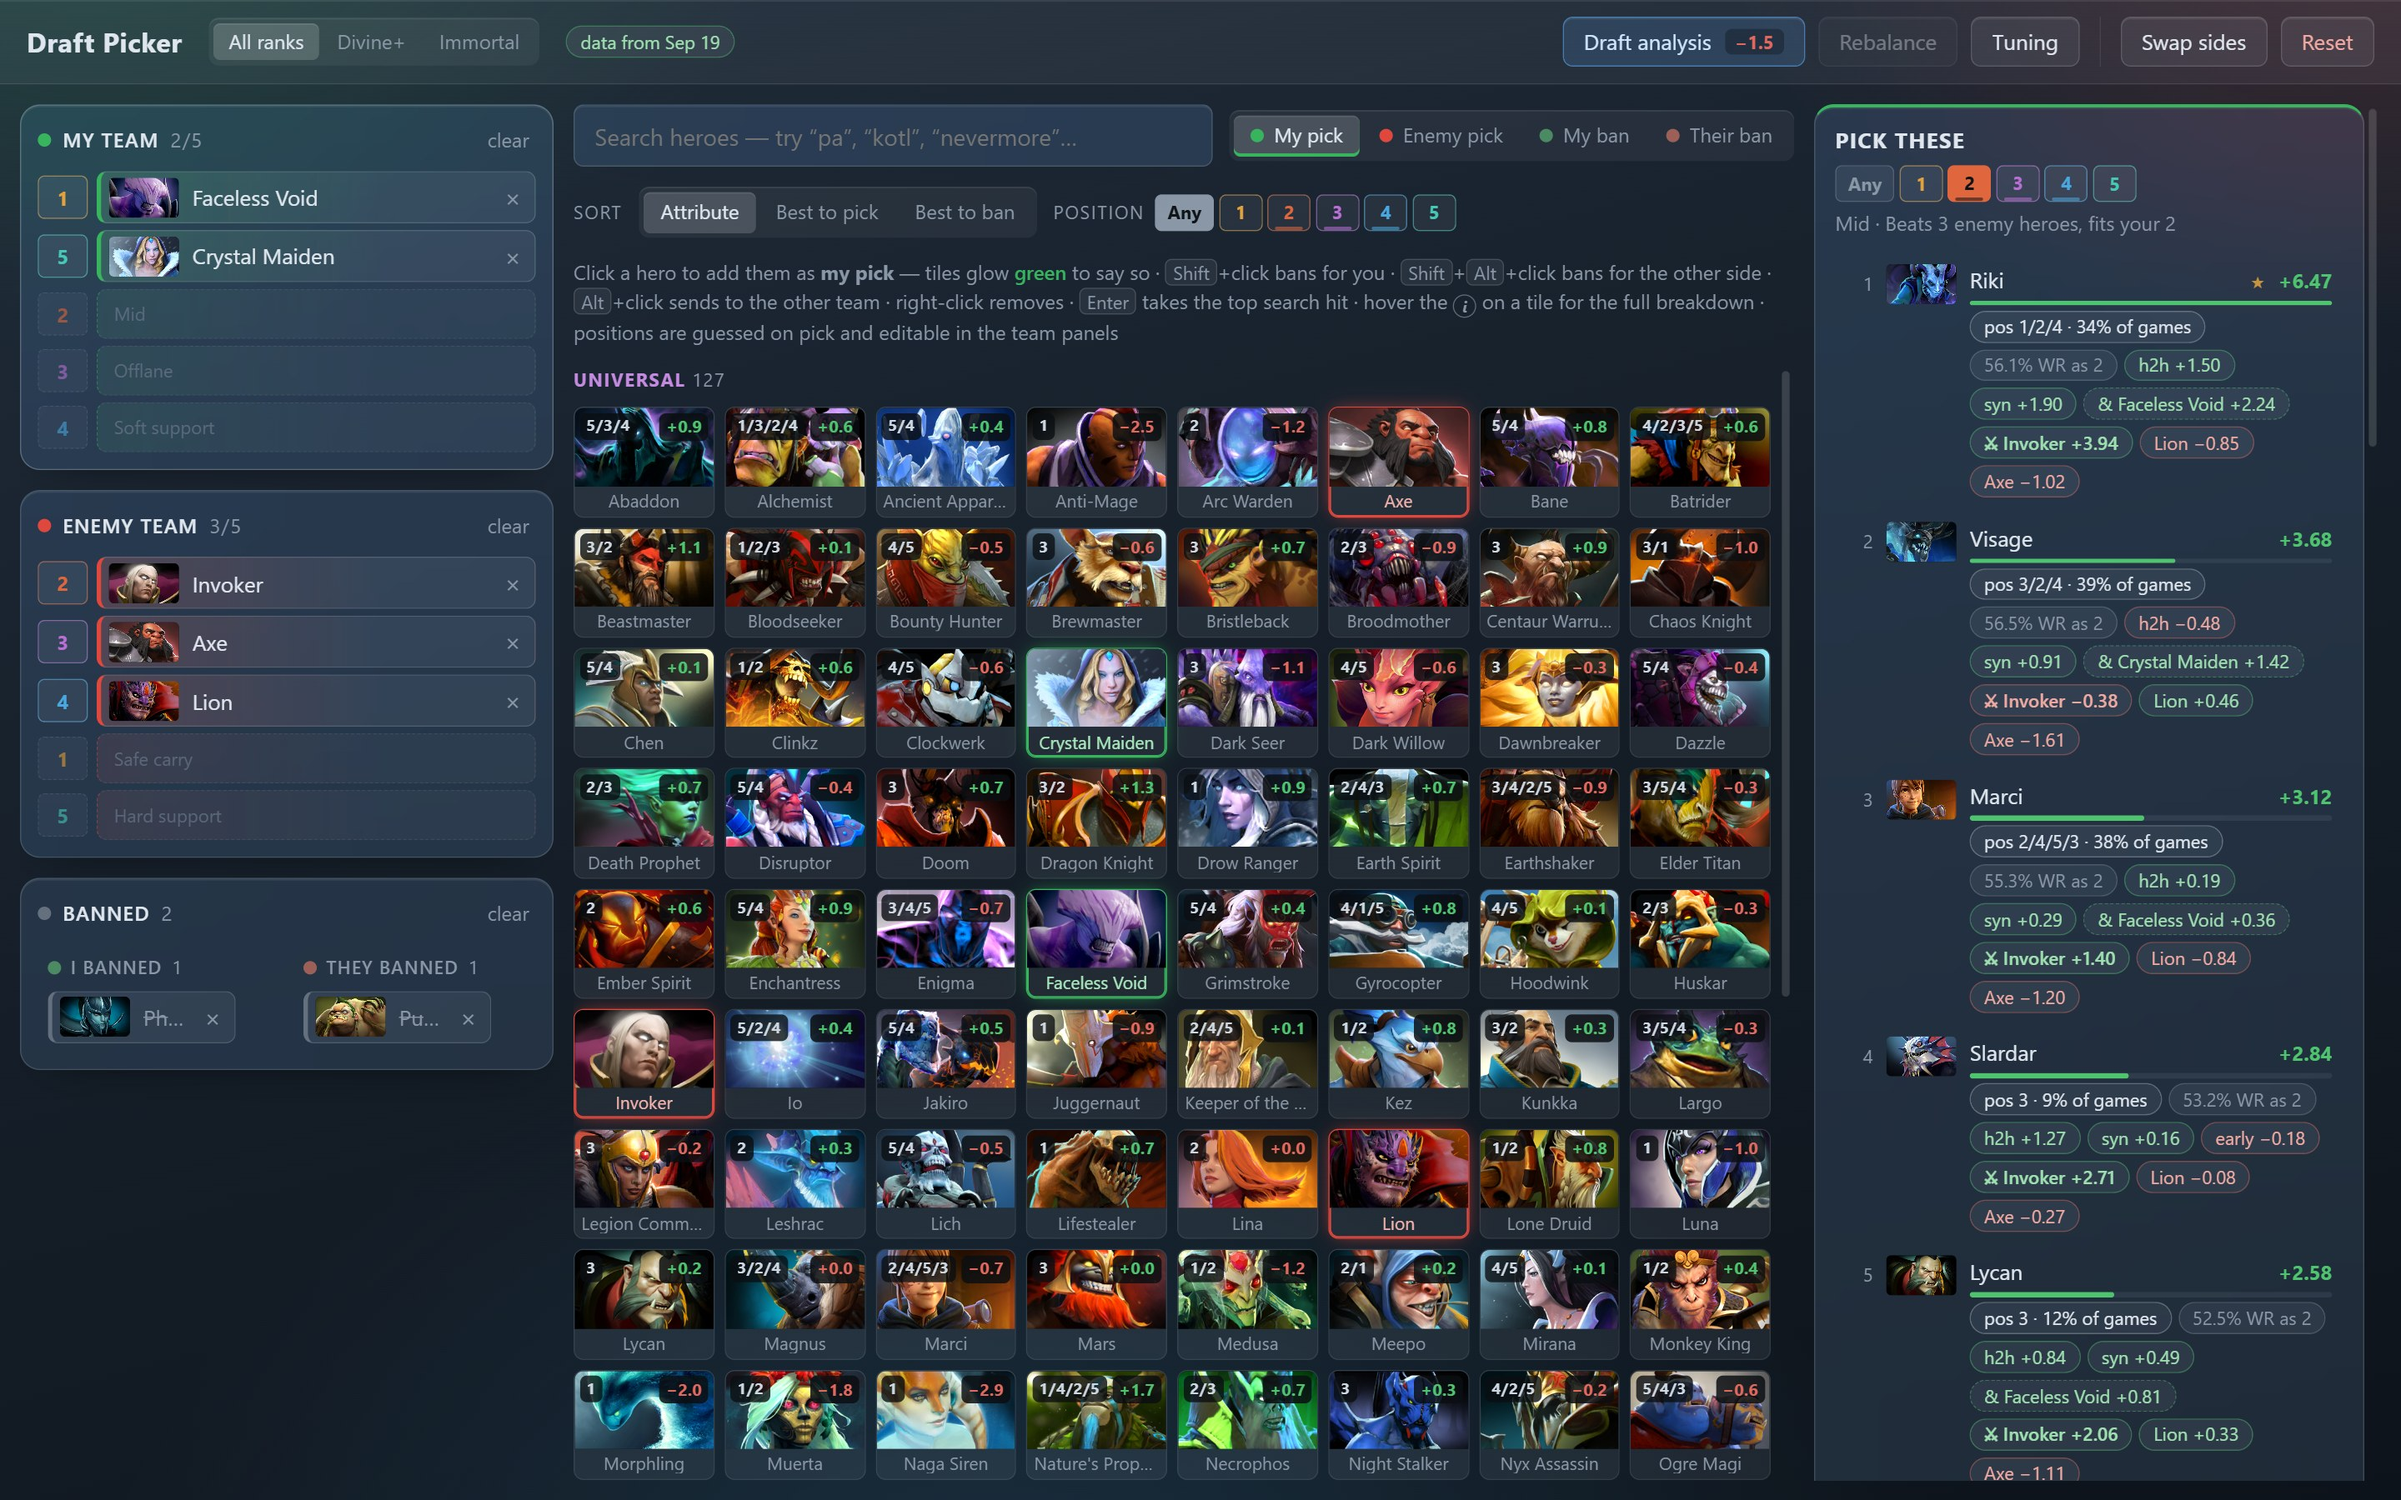
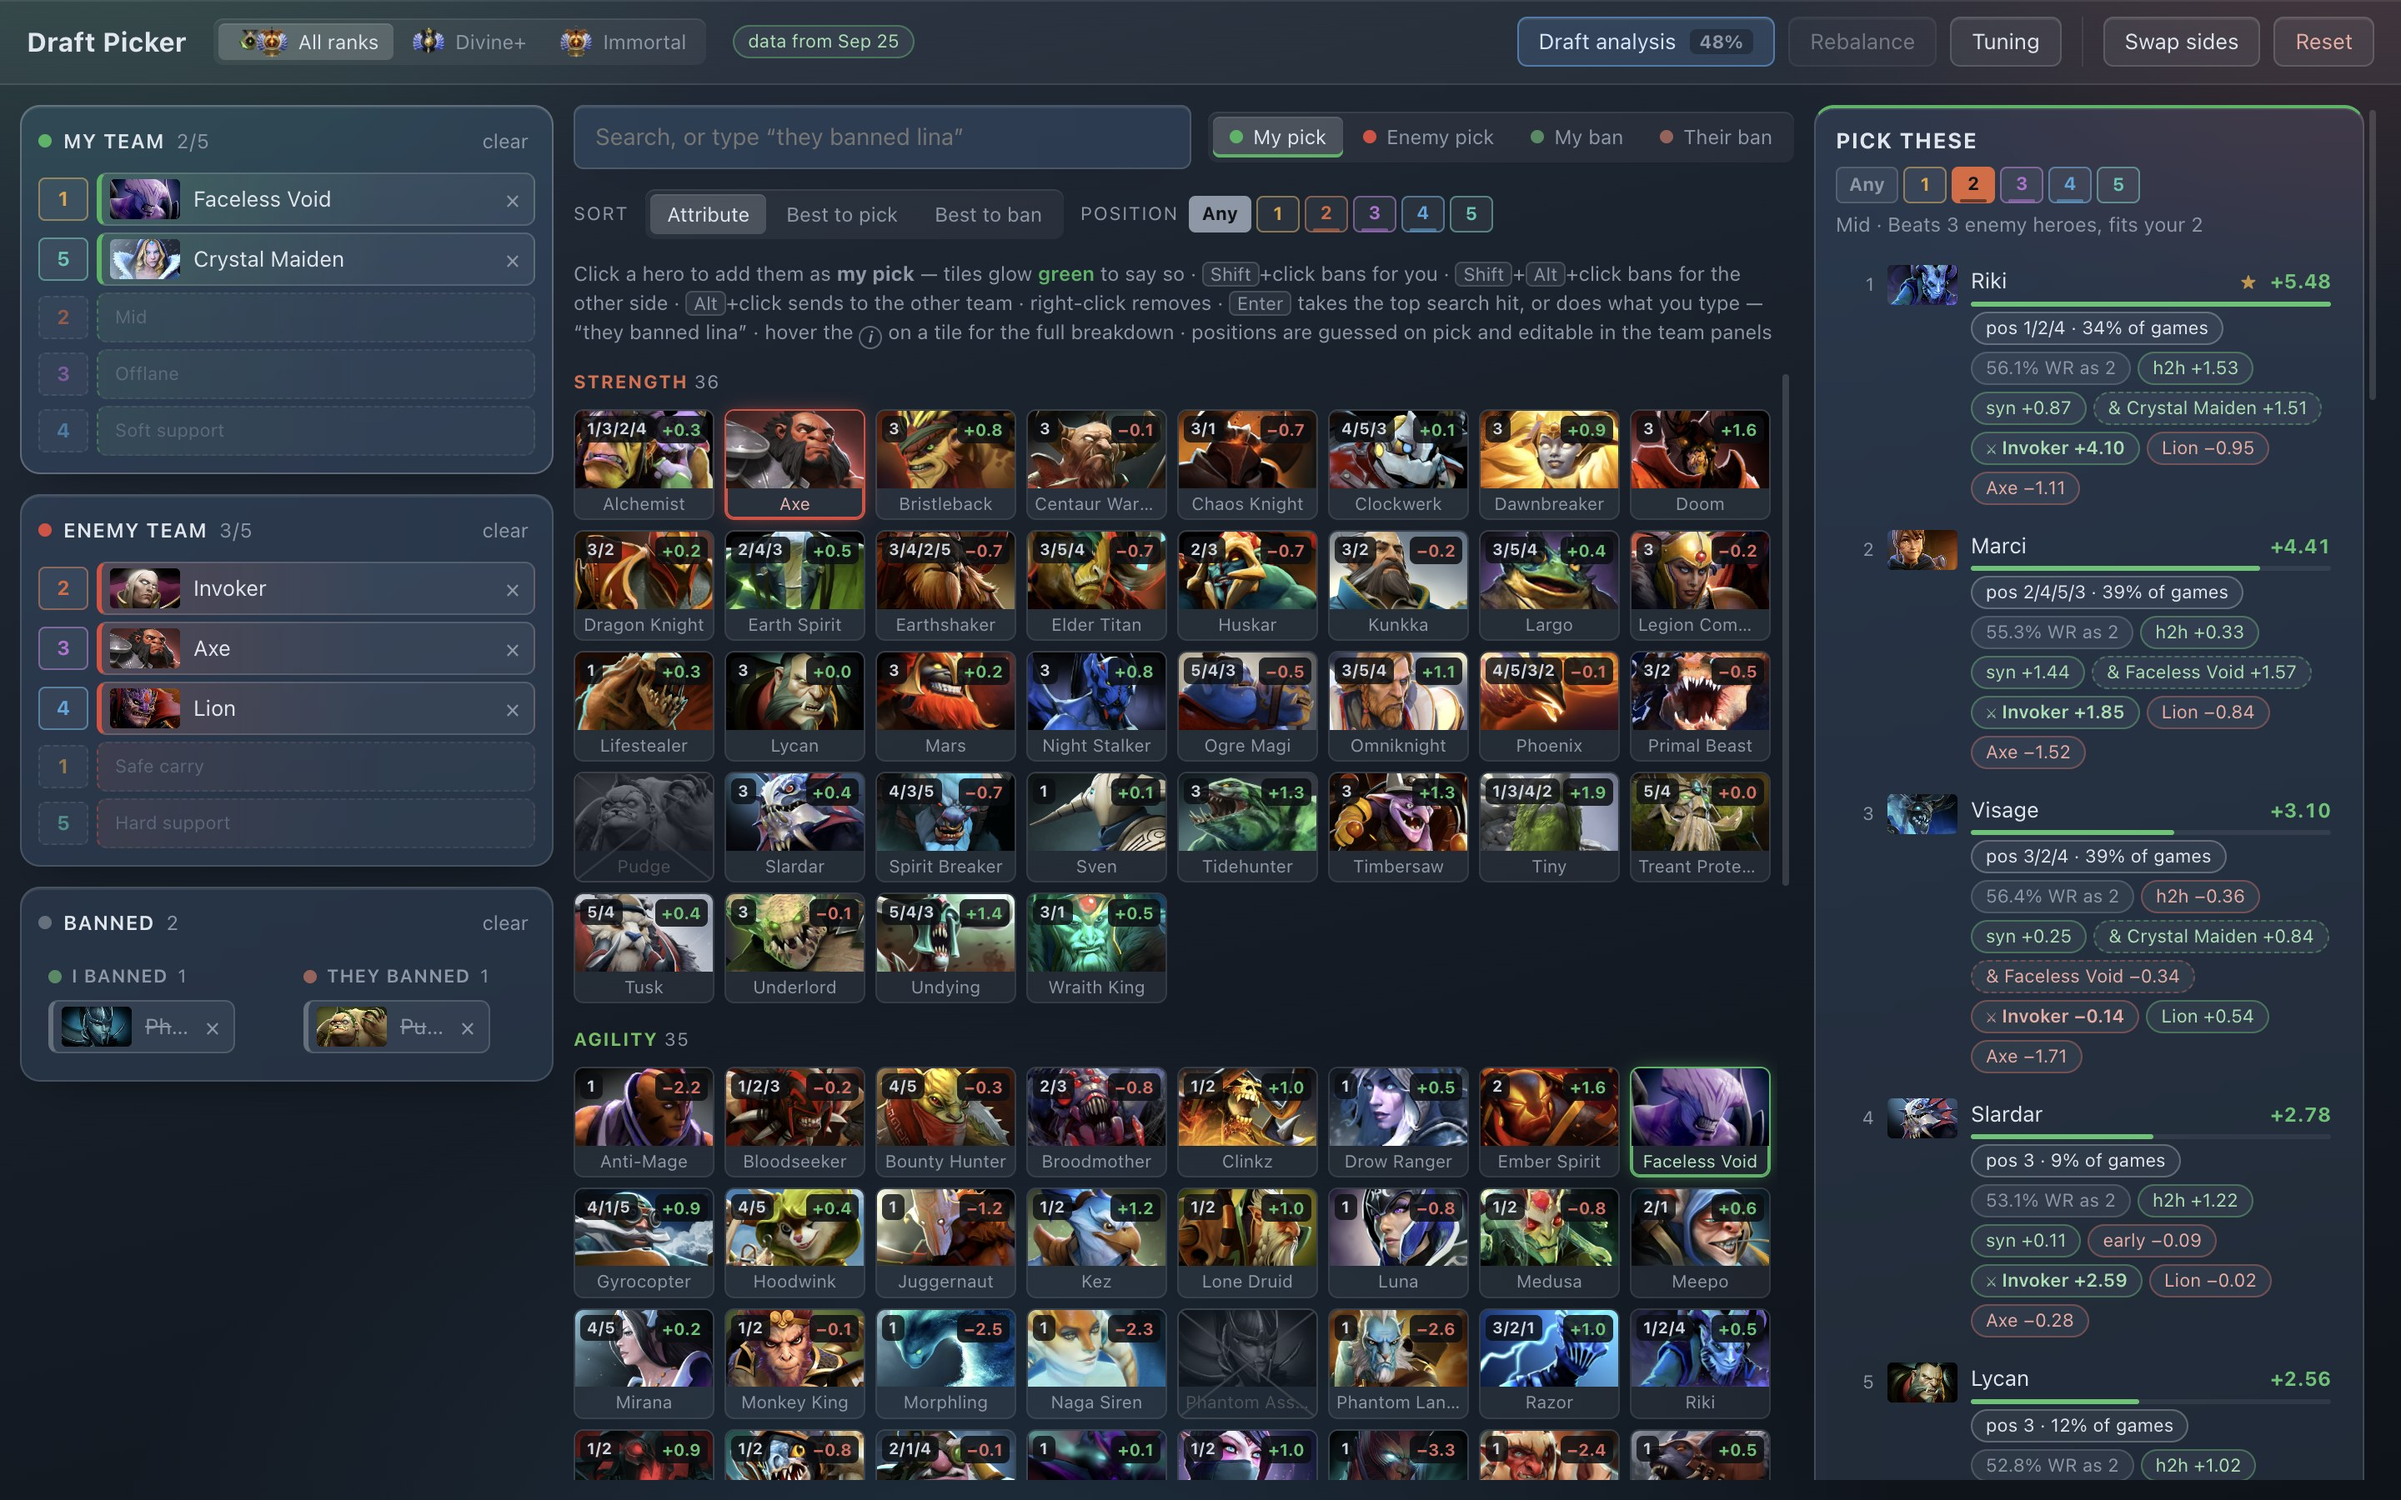
Describe typed draft commands in the README
The intro says the draft can be marked in plain words, and "Typing the draft"
under Using it gives examples and what the search box understands: sides,
actions, positions, nicknames and typos, with the preview line and Undo. The
file list names the command parser and the draft reducer, and the screenshot
shows the search box's placeholder.

diff --git a/README.md b/README.md
@@ -24,9 +24,10 @@
 <br>
 
 A pick/ban assistant for Dota 2. Mark who the enemy took, who you took and what
-got banned: it ranks the heroes that match up best into the enemy line-up *and*
-work best beside your own, reads every lane seat by seat, and tells you which
-hero the enemy most wants next. It runs in the browser, with nothing to install.
+got banned, with a click or in plain words: `they banned lina`, `I pick pl mid`.
+It ranks the heroes that match up best into the enemy line-up *and* work best
+beside your own, reads every lane seat by seat, and tells you which hero the
+enemy most wants next. It runs in the browser, with nothing to install.
 
 <img src="docs/assets/screenshot.jpg" alt="The picker mid-draft: Faceless Void and Crystal Maiden against Invoker, Axe and Lion, with the mid candidates ranked on the right" width="100%">
 
@@ -88,7 +89,7 @@ matchup pages, so counters carry no patch of their own.
 | Right-click | Removes from the draft |
 | Just start typing | Focuses the search box |
 | `Enter` | Takes the top search hit; `Shift`+`Enter` bans it |
-| Type what happened — `they banned lina`, `I pick pl mid` — then `Enter` | Does it: picks, bans, removals and positions, either side, with **Undo**. Typos such as `lnia` or `phantm lancr` still find the hero — [how it reads](docs/ui.md#typing-the-draft) |
+| Type what happened, then `Enter` | Picks, bans, removes and seats heroes for either side — see [Typing the draft](#typing-the-draft) |
 | `Alt`+`1/2/3` | Switches the active slot |
 | `Esc` | Clears the search |
 | Hover the **i** on a tile | Opens the full breakdown for that hero |
@@ -101,6 +102,25 @@ Your picks are green, the enemy's are red, bans are greyed out and crossed
 through. Once the enemy has heroes on the board, every remaining tile shows its
 average advantage against that line-up in the corner. What each panel shows and
 how to read it: [docs/ui.md](docs/ui.md).
+
+### Typing the draft
+
+The search box takes the draft in plain words. Type what happened and press
+`Enter`:
+
+- `they banned lina`: their ban
+- `I pick pl mid`: Phantom Lancer on your team, at position 2
+- `we ban bruda, am and pa`: three bans of yours
+- `they picked lina mid, cm hard support and we took am`: the whole exchange at once
+
+The line under the box says what `Enter` will do before you press it, and what
+it did afterwards, with **Undo**. It knows sides (*I, we, our* and *they, them,
+enemy*), actions (*pick, took, ban, remove…*), positions (*pos 1*, *mid*,
+*offlane*, *hard support*…) and the nicknames players use (`pl`, `kotl`,
+`bruda`, `kent`…), and it reads typos such as `lnia` or `phantm lancr`. A word
+it cannot place is shown rather than guessed at. It is all worked out in the
+page, in any browser. How it reads a sentence:
+[docs/ui.md](docs/ui.md#typing-the-draft).
 
 ## Updating the data
 
@@ -149,7 +169,7 @@ build is relative: [docs/website.md](docs/website.md).
 ## Development
 
 ```bash
-npm test                # parsers, collectors, the scoring engine, the README blocks
+npm test                # parsers, collectors, the scoring engine, typed commands, the README blocks
 npm run build           # typecheck + production bundle
 npm run readme:images   # re-render the banner and the screenshot
 ```
@@ -196,11 +216,13 @@ src/lib/roles.ts             position labels, lane pairings, auto-assignment
 src/lib/dataset.ts           loads the data files, merges the roster
 src/lib/positions.ts         STRATZ counts -> positions for the chosen rank band
 src/lib/lanes.ts             lane outcomes: expectation, pairing effects, counters by seat
-src/lib/search.ts            hero search, abbreviations, internal names
+src/lib/search.ts            hero search: nicknames, internal names, typos (unit-tested)
+src/lib/command.ts           typed draft commands, read and applied (pure, unit-tested)
+src/lib/draftState.ts        the draft reducer (pure)
 src/components/HeroCard.tsx  the hover breakdown behind each tile's i icon
 src/components/DraftAnalysis.tsx  the panel behind the Draft analysis button
 src/components/Rebalance.tsx the reshuffle shortlist behind the top-bar button
-src/state/draft.ts           draft reducer + localStorage
+src/state/draft.ts           the draft hook + localStorage
 src/data/heroes.ts           the hero roster every collector finds heroes through
 .github/workflows/pages.yml  tests, builds and publishes the site to GitHub Pages
 .claude/skills/refresh-data  the data routine, written for agents
